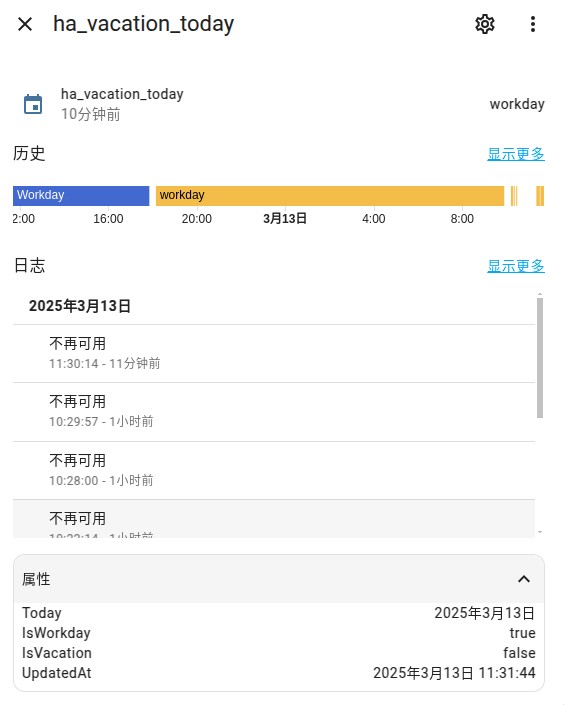
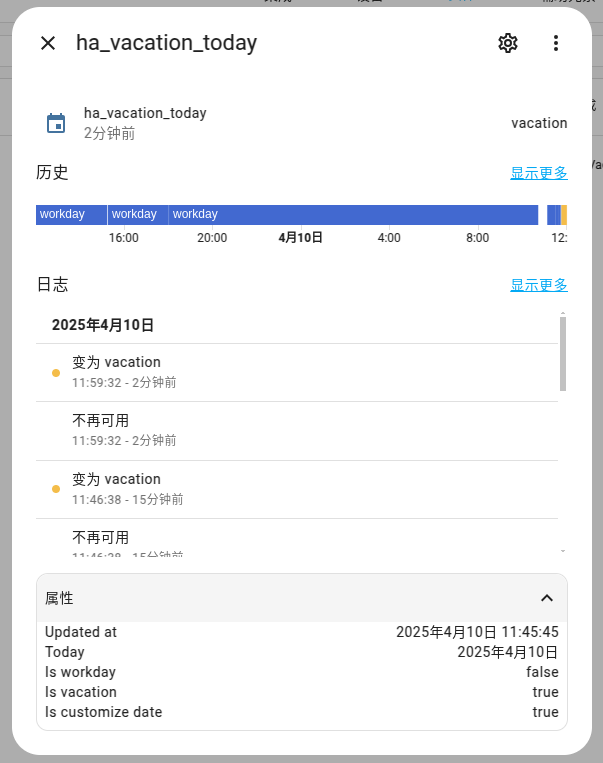
feat: support deploy customize date (#14)
* feat: support input customize date

* feat: support input customize date

* refactor: refactor input or remove customize date

* feat: sensor date attribute change according to custom date

* docs: update README.md

* fix: flake8 and Pylint check

* fix: flake8 and Pylint check

* fix: flake8 and Pylint check III

Changed region(s): [[0.0, 0.0, 1.0, 1.0], [0.2411, 0.7177, 0.3014, 0.7801]]

diff --git a/custom_components/ha_vacation/config_flow.py b/custom_components/ha_vacation/config_flow.py
@@ -1,9 +1,13 @@
+import re
 import logging
+from typing import Optional
+
 import voluptuous as vol
 from homeassistant import config_entries
 from homeassistant.core import callback
-
-from .constants import Options
+from homeassistant.config_entries import OptionsFlow
+from .constants import Options, CustomizeMenuItems, CustomizeDateSet, CONFIG_FILE
+from .customize_date import CustomizeDate
 
 _LOGGER = logging.getLogger(__name__)
 
@@ -26,43 +30,91 @@ class HaVacationConfigFlow(config_entries.ConfigFlow, domain=DOMAIN):
                 _LOGGER.info("创建配置条目: %s", date)
                 return self.async_create_entry(title=date, data=user_input)
 
-        data_schema = vol.Schema(
-            {
-                vol.Required("date", default="today"): vol.In(OPTIONS),
-            }
-        )
+        data_schema = vol.Schema({vol.Required("date", default="today"): vol.In(OPTIONS)})
 
-        return self.async_show_form(
-            step_id="user",
-            data_schema=data_schema,
-            errors=errors,
-        )
+        return self.async_show_form(step_id="user", data_schema=data_schema, errors=errors)
 
     @staticmethod
     @callback
-    def async_get_options_flow(entry):
-        return HaVacationOptionsFlow(entry)
+    def async_get_options_flow(config_entry):
+        return HaVacationOptionsFlow(config_entry)
 
 
-class HaVacationOptionsFlow(config_entries.OptionsFlow):
+class HaVacationOptionsFlow(OptionsFlow):
     def __init__(self, entry):
         self.entry = entry
+        self.customize_date: Optional[CustomizeDate | None] = None
 
     async def async_step_init(self, user_input=None):
+        if self.customize_date is None:
+            self.customize_date = CustomizeDate(self.hass, CONFIG_FILE)
+        return self.async_show_menu(step_id="menu", menu_options=CustomizeMenuItems.to_dict())
+
+    async def async_step_menu(self, user_input=None):
+        if user_input == CustomizeMenuItems.ADD_VACATION_DATE.name:
+            step = await self.async_step_add_vacation_date()
+        elif user_input == CustomizeMenuItems.DELETE_VACATION_DATE.name:
+            step = await self.async_step_delete_vacation_date()
+        elif user_input == CustomizeMenuItems.ADD_WORKDAY_DATE.name:
+            step = await self.async_step_add_workday_date()
+        elif user_input == CustomizeMenuItems.DELETE_WORKDAY_DATE.name:
+            step = await self.async_step_delete_workday_date()
+        else:
+            step = self.async_show_menu(step_id="menu", menu_options=CustomizeMenuItems.to_dict())
+        return step
+
+    async def async_step_add_vacation_date(self, user_input=None):
         errors = {}
         if user_input is not None:
-            date = user_input.get("date", "today")
-            if date not in OPTIONS:
+            date = user_input.get("date", "")
+            if not date or not re.match(r"^\d{4}-\d{2}-\d{2}$", date):
+                errors["date"] = "请输入有效的日期格式（YYYY-MM-DD）"
+            else:
+                await self.customize_date.save_customize_date(CustomizeDateSet.VACATION.value, date)
+                _LOGGER.info("日期已保存到 %s: %s", CONFIG_FILE, date)
+                return self.async_abort(reason="添加自定义假期日期成功")
+        data_schema = vol.Schema({vol.Required("date"): vol.All(str, vol.Length(min=1))})
+        return self.async_show_form(step_id="add_vacation_date", data_schema=data_schema, errors=errors)
+
+    async def async_step_delete_vacation_date(self, user_input=None):
+        errors = {}
+        if user_input is not None:
+            date = user_input.get("date", "")
+            if not date:
                 errors["date"] = "invalid_date"
                 _LOGGER.error("无效的日期选项: %s", date)
             else:
-                _LOGGER.info("更新配置: %s", date)
-                return self.async_create_entry(title="", data=user_input)
+                _LOGGER.info("创建配置条目: %s", date)
+                await self.customize_date.delete_customize_date_from_yaml(CustomizeDateSet.VACATION.value, date)
+                return self.async_abort(reason="删除自定义假期日期成功")
+        default_data = await self.customize_date.read_customize_date_from_yaml(CustomizeDateSet.VACATION.value)
+        data_schema = vol.Schema({vol.Required("date"): vol.In(default_data)})
+        return self.async_show_form(step_id="delete_vacation_date", data_schema=data_schema, errors=errors)
 
-        data_schema = vol.Schema(
-            {
-                vol.Required("date", default=self.entry.data.get("date", "today")): vol.In(OPTIONS),
-            }
-        )
+    async def async_step_add_workday_date(self, user_input=None):
+        errors = {}
+        if user_input is not None:
+            date = user_input.get("date", "")
+            if not date or not re.match(r"^\d{4}-\d{2}-\d{2}$", date):
+                errors["date"] = "请输入有效的日期格式（YYYY-MM-DD）"
+            else:
+                await self.customize_date.save_customize_date(CustomizeDateSet.WORKDAY.value, date)
+                _LOGGER.info("日期已保存到 %s: %s", CONFIG_FILE, date)
+                return self.async_abort(reason="添加自定义工作日日期成功")
+        data_schema = vol.Schema({vol.Required("date"): vol.All(str, vol.Length(min=1))})
+        return self.async_show_form(step_id="add_workday_date", data_schema=data_schema, errors=errors)
 
-        return self.async_show_form(step_id="init", data_schema=data_schema, errors=errors)
+    async def async_step_delete_workday_date(self, user_input=None):
+        errors = {}
+        if user_input is not None:
+            date = user_input.get("date", "")
+            if not date:
+                errors["date"] = "invalid_date"
+                _LOGGER.error("无效的日期选项: %s", date)
+            else:
+                _LOGGER.info("创建配置条目: %s", date)
+                await self.customize_date.delete_customize_date_from_yaml(CustomizeDateSet.WORKDAY.value, date)
+                return self.async_abort(reason="删除自定义工作日期成功")
+        default_data = await self.customize_date.read_customize_date_from_yaml(CustomizeDateSet.WORKDAY.value)
+        data_schema = vol.Schema({vol.Required("date"): vol.In(default_data)})
+        return self.async_show_form(step_id="delete_vacation_date", data_schema=data_schema, errors=errors)

diff --git a/custom_components/ha_vacation/ha_vacation_date.py b/custom_components/ha_vacation/ha_vacation_date.py
@@ -1,19 +1,27 @@
 import datetime
-from typing import Optional
 from dataclasses import dataclass, field
+from typing import Optional
 
 from chinese_calendar import is_holiday, is_workday
-from .constants import Options, HaVacationAttributes
+
+from .constants import Options, HaVacationAttributes, CustomizeDateSet
+from .customize_date import CustomizeDate
+
 
 @dataclass
 class HaVacationDate:
     name: str
+    customize_date: CustomizeDate
     now: str = datetime.datetime.now().strftime("%Y-%m-%d %H:%M:%S")
     today: datetime.date = field(default_factory=datetime.date.today)
     attributes: dict = field(default_factory=dict, init=False)
     date_datetime: Optional[datetime.date] = field(default=None, init=False)
+    customize_vacation_dates: list = field(default_factory=list, init=False)
+    customize_workday_dates: list = field(default_factory=list, init=False)
 
     def __post_init__(self):
+        self.customize_vacation_dates = self.customize_date.sync_load_customize_date(CustomizeDateSet.VACATION.value)
+        self.customize_workday_dates = self.customize_date.sync_load_customize_date(CustomizeDateSet.WORKDAY.value)
         self.update_date()
         self.update_attributes()
 
@@ -22,17 +30,43 @@ class HaVacationDate:
 
     @property
     def is_vacation(self) -> str:
-        if is_holiday(self.date_datetime):
-            return HaVacationAttributes.TRUE.value
+        if self.in_customize_date:
+            if str(self) in self.customize_vacation_dates:
+                result = HaVacationAttributes.TRUE.value
+            else:
+                result = HaVacationAttributes.FALSE.value
+
+        elif is_holiday(self.date_datetime):
+            result = HaVacationAttributes.TRUE.value
         else:
-            return HaVacationAttributes.FALSE.value
+            result = HaVacationAttributes.FALSE.value
+        return result
 
     @property
     def is_workday(self) -> str:
-        if is_workday(self.date_datetime):
-            return HaVacationAttributes.TRUE.value
+        if self.in_customize_date:
+            if str(self) in self.customize_workday_dates:
+                result = HaVacationAttributes.TRUE.value
+            else:
+                result = HaVacationAttributes.FALSE.value
+
+        elif is_workday(self.date_datetime):
+            result = HaVacationAttributes.TRUE.value
         else:
-            return HaVacationAttributes.FALSE.value
+            result = HaVacationAttributes.FALSE.value
+        return result
+
+    @property
+    def in_customize_date(self) -> bool:
+        if str(self) in self.customize_vacation_dates or str(self) in self.customize_workday_dates:
+            return True
+        return False
+
+    @property
+    def is_customize_date(self) -> str:
+        if self.in_customize_date:
+            return HaVacationAttributes.TRUE.value
+        return HaVacationAttributes.FALSE.value
 
     @property
     def state(self) -> str:
@@ -56,8 +90,9 @@ class HaVacationDate:
 
     def update_attributes(self):
         self.attributes = {
+            "updated_at": self.now,
             self.name: str(self),
             "is_workday": self.is_workday,
             "is_vacation": self.is_vacation,
-            "updated_at": self.now
+            "is_customize_date": self.is_customize_date
         }

diff --git a/custom_components/ha_vacation/customize_date.py b/custom_components/ha_vacation/customize_date.py
@@ -1,0 +1,64 @@
+import os
+import logging
+import yaml
+from homeassistant.core import HomeAssistant
+
+
+from .constants import CustomizeDateSet
+
+_LOGGER = logging.getLogger(__name__)
+
+
+class CustomizeDate:
+    def __init__(self, hass: HomeAssistant, config_file: str):
+        self.hass = hass
+        self.file_path = self.hass.config.path(config_file)
+        os.makedirs(os.path.dirname(self.file_path), exist_ok=True)
+
+    def _load_local_data(self) -> dict:
+        default_data = {CustomizeDateSet.VACATION.value: [], CustomizeDateSet.WORKDAY.value: []}
+        if os.path.exists(self.file_path):
+            try:
+                with open(self.file_path, "r", encoding="utf-8") as file:
+                    default_data = yaml.safe_load(file) or {}
+                    if not isinstance(default_data, dict):
+                        _LOGGER.warning("Read %s format error, reset to list: %s", self.file_path, self.file_path)
+                        default_data = {CustomizeDateSet.VACATION.value: [], CustomizeDateSet.WORKDAY.value: []}
+            except yaml.YAMLError as e:
+                _LOGGER.error("Read %s failed: %s", self.file_path, e)
+        return default_data
+
+    async def _load_original_data(self) -> dict:
+        return self._load_local_data()
+
+    async def write_customize_date_to_yaml(self, data_written):
+        try:
+            with open(self.file_path, "w", encoding="utf-8") as file:
+                yaml.safe_dump(data_written, file, allow_unicode=True, default_flow_style=False)
+            _LOGGER.info("Date saved to %s: %s", self.file_path, data_written)
+        except OSError as e:
+            _LOGGER.error("Write %s failed: %s", self.file_path, e)
+
+    async def save_customize_date(self, date_type: str, date: str):
+        default_data = await self._load_original_data()
+        default_data[date_type].append(date)
+        await self.write_customize_date_to_yaml(default_data)
+
+    async def read_customize_date_from_yaml(self, date_type: str):
+        default_data = await self._load_original_data()
+        return default_data[date_type]
+
+    async def delete_customize_date_from_yaml(self, date_type: str, date: str):
+        default_data = await self._load_original_data()
+        try:
+            default_data[date_type].remove(date)
+            with open(self.file_path, "w", encoding="utf-8") as file:
+                yaml.safe_dump(default_data, file, allow_unicode=True, default_flow_style=False)
+        except ValueError:
+            _LOGGER.warning("Date %s not found in %s", date, self.file_path)
+        except OSError as e:
+            _LOGGER.error("Delete write %s failed: %s", self.file_path, e)
+
+    def sync_load_customize_date(self, date_type: str):
+        default_data = self._load_local_data()
+        return default_data[date_type]

diff --git a/custom_components/ha_vacation/constants.py b/custom_components/ha_vacation/constants.py
@@ -1,15 +1,35 @@
 from enum import Enum
 
+
+CONFIG_FILE = "custom_components/ha_vacation/ha_vacation.yaml"
+
+
 class Options(Enum):
-    TODAY = "today"
-    YESTERDAY = "yesterday"
-    TOMORROW = "tomorrow"
+    TODAY: str = "today"
+    YESTERDAY: str = "yesterday"
+    TOMORROW: str = "tomorrow"
 
     @staticmethod
-    def to_list():
+    def to_list() -> list:
         return [option.value for option in Options]
 
 
 class HaVacationAttributes(Enum):
-    TRUE = "true"
-    FALSE = "false"
+    TRUE: str = "true"
+    FALSE: str = "false"
+
+
+class CustomizeMenuItems(Enum):
+    ADD_VACATION_DATE: str = "添加自定义假期"
+    DELETE_VACATION_DATE: str = "删除自定义假期"
+    ADD_WORKDAY_DATE: str = "添加自定义工作日"
+    DELETE_WORKDAY_DATE: str = "删除自定义工作日"
+
+    @staticmethod
+    def to_dict():
+        return {item.name.lower(): item.value for item in CustomizeMenuItems}
+
+
+class CustomizeDateSet(Enum):
+    VACATION: str = "vacation_dates"
+    WORKDAY: str = "workday_dates"

diff --git a/custom_components/ha_vacation/sensor.py b/custom_components/ha_vacation/sensor.py
@@ -3,6 +3,8 @@ from homeassistant.helpers.entity import Entity
 from homeassistant.helpers.event import async_track_time_change
 
 from .ha_vacation_date import HaVacationDate
+from .constants import CONFIG_FILE
+from .customize_date import CustomizeDate
 
 _LOGGER = logging.getLogger(__name__)
 
@@ -31,7 +33,8 @@ class VacationSensor(Entity):
         self._name = f"ha_vacation_{date}"
         self._unique_id = f"vacation_sensor_{date}"
 
-        self.ha_vacation_date = HaVacationDate(date)
+        customize_date = CustomizeDate(self._hass, CONFIG_FILE)
+        self.ha_vacation_date = HaVacationDate(date, customize_date)
         self._attributes: dict = self.ha_vacation_date.attributes
 
     @property

diff --git a/README.md b/README.md
@@ -1,6 +1,6 @@
 # HaVacation
 
-A Chinese workday/vacation integration for Home-Assistant.
+A Chinese workday/vacation integration for Home-Assistant, support customize date of workday and vacation.
 
 ## Installation
 
@@ -12,7 +12,7 @@ After restart Home-Assistant, you can find it in the integration menu or click:
 [![add_integration](https://my.home-assistant.io/badges/config_flow_start.svg)](https://my.home-assistant.io/redirect/config_flow_start/?domain=ha_vacation)
 
 ### Manual Install
-Go to [Releases](https://github.com/touero/HaVacation/releases/) download the HaVacation.tar.gz, and move it to `HomeAssistant/custom_components` and execute:
+Go to [Releases](https://github.com/touero/HaVacation/releases/) download the ha_vacation.tar.gz, and move it to `HomeAssistant/custom_components` and execute:
 
 ```shell
 tar -zxvf ha_vacation.tar.gz
@@ -31,11 +31,19 @@ And then have attribute:
 
 ![preview](https://github.com/touero/HaVacation/blob/main/preview/sensor_details.png)
 
+You can customize the date of workday and vacation in the integration configuration.
+
+![preview](https://github.com/touero/HaVacation/blob/main/preview/config.png)
+
 > [!TIP]
+> `Updated at` is the sensor update datetime, it will update at every day 00:00.  
 > `Is workday` indicates whether it is a working day, type: `string`.  
 > `Is vacation` indicates whether it is a holiday, type: `string`.  
-> The value of `IsWorkday` and `IsVacation` there will be only two changes: `true` and `false`.  
-> `UpdatedAt` is the sensor update datetime, it will update at every day 00:00.  
+> `Is customize date` is this day a custom date entered manually, type: `string`.  
+> The value of `Is workday`, `Is vacation` and `Is customize date` there will be only two changes: `true` and `false`.  
+
+> [!IMPORTANT] 
+> Reloading is required after configuring a custom date
 
 Start your automation!
 
@@ -43,5 +51,4 @@ Start your automation!
 [@touero](https://github.com/touero)
 
 ## Base on
-
 [chinese-calendar](https://github.com/LKI/chinese-calendar)
